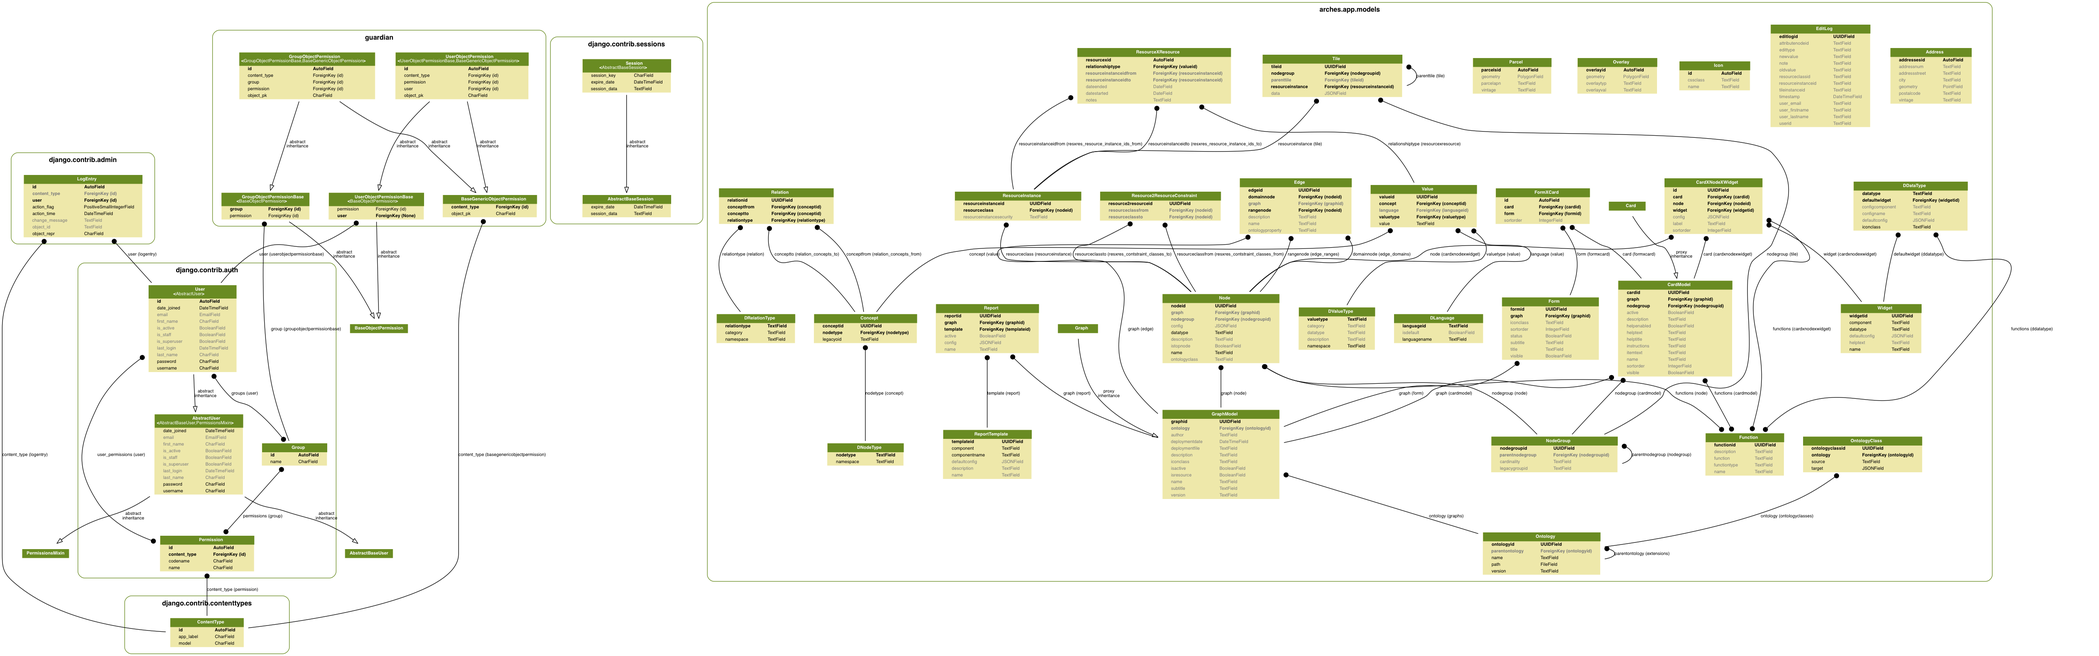
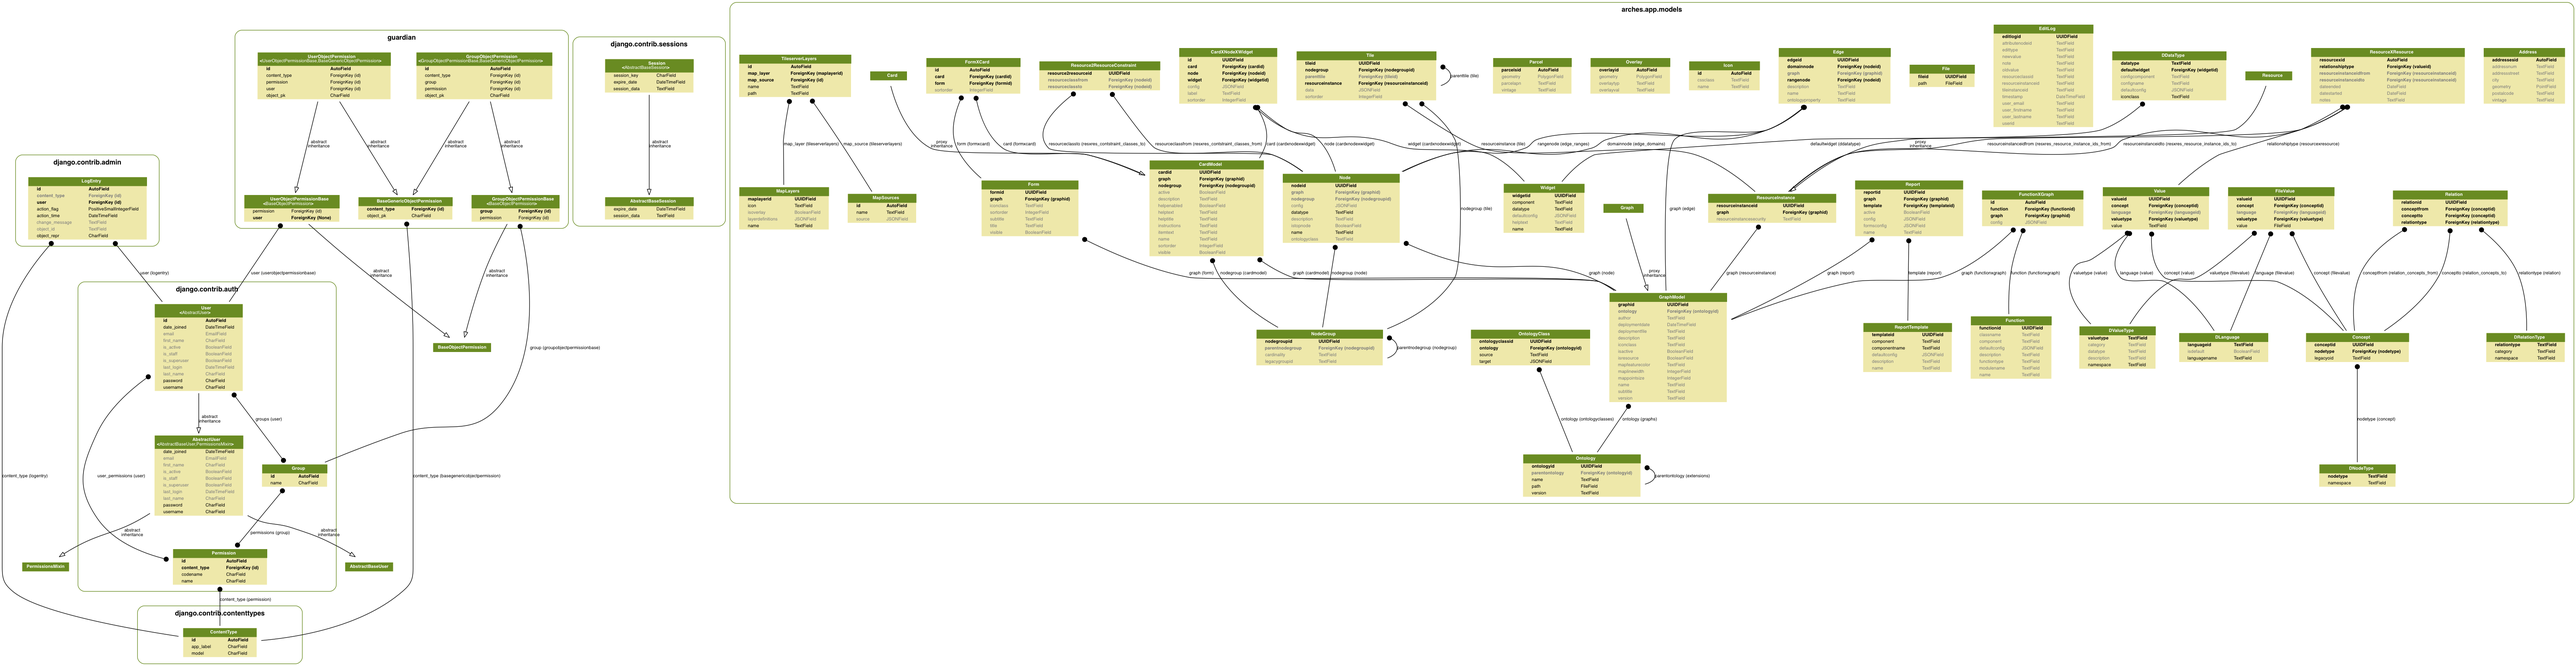
adding command to delete tileserver layer re: #1210

diff --git a/arches/management/commands/packages.py b/arches/management/commands/packages.py
@@ -49,7 +49,7 @@ class Command(BaseCommand):
 
     def add_arguments(self, parser):
         parser.add_argument('-o', '--operation', action='store', dest='operation', default='setup',
-            choices=['setup', 'install', 'setup_db', 'setup_indexes', 'start_elasticsearch', 'setup_elasticsearch', 'build_permissions', 'livereload', 'load_resources', 'remove_resources', 'load_concept_scheme', 'index_database','export_resources', 'import_json', 'export_json', 'add_tilserver_layer'],
+            choices=['setup', 'install', 'setup_db', 'setup_indexes', 'start_elasticsearch', 'setup_elasticsearch', 'build_permissions', 'livereload', 'load_resources', 'remove_resources', 'load_concept_scheme', 'index_database','export_resources', 'import_json', 'export_json', 'add_tilserver_layer', 'delete_tilserver_layer'],
             help='Operation Type; ' +
             '\'setup\'=Sets up Elasticsearch and core database schema and code' +
             '\'setup_db\'=Truncate the entire arches based db and re-installs the base schema' +
@@ -84,7 +84,7 @@ class Command(BaseCommand):
             help='A path to a mapnik xml file to generate a tileserver layer from.')
 
         parser.add_argument('-n', '--layer_name', action='store', dest='layer_name', default=False,
-            help='A name to use for a new tileserver layer.')
+            help='The name of the tileserver layer to add or delete.')
 
 
     def handle(self, *args, **options):
@@ -140,6 +140,9 @@ class Command(BaseCommand):
 
         if options['operation'] == 'add_tilserver_layer':
             self.add_tilserver_layer(options['layer_name'], options['mapnik_xml_path'])
+
+        if options['operation'] == 'delete_tilserver_layer':
+            self.delete_tilserver_layer(options['layer_name'])
 
     def setup(self, package_name):
         """
@@ -421,6 +424,16 @@ class Command(BaseCommand):
                 }]
                 map_source = models.MapSources(name=layer_name, source=source_dict)
                 map_layer = models.MapLayers(name=layer_name, layerdefinitions=layer_list, isoverlay=True, icon='')
-                tileserver_layer.save()
                 map_source.save()
                 map_layer.save()
+                tileserver_layer.map_layer = map_layer
+                tileserver_layer.map_source = map_source
+                tileserver_layer.save()
+
+    def delete_tilserver_layer(self, layer_name=False):
+        if layer_name != False:
+            with transaction.atomic():
+                tileserver_layer = models.TileserverLayers.objects.get(name=layer_name)
+                tileserver_layer.map_layer.delete()
+                tileserver_layer.map_source.delete()
+                tileserver_layer.delete()

diff --git a/arches/app/models/migrations/0001_initial.py b/arches/app/models/migrations/0001_initial.py
@@ -705,6 +705,8 @@ class Migration(migrations.Migration):
             fields=[
                 ('name', models.TextField()),
                 ('path', models.TextField()),
+                ('map_layer', models.ForeignKey(db_column='map_layerid', to='models.MapLayers')),
+                ('map_source', models.ForeignKey(db_column='map_sourceid', to='models.MapSources')),
             ],
             options={
                 'db_table': 'tileserver_layers',

diff --git a/arches/app/models/models.py b/arches/app/models/models.py
@@ -670,6 +670,8 @@ class MapLayers(models.Model):
 class TileserverLayers(models.Model):
     name = models.TextField()
     path = models.TextField()
+    map_layer = models.ForeignKey('MapLayers', db_column='map_layerid')
+    map_source = models.ForeignKey('MapSources', db_column='map_sourceid')
 
     class Meta:
         managed = True
